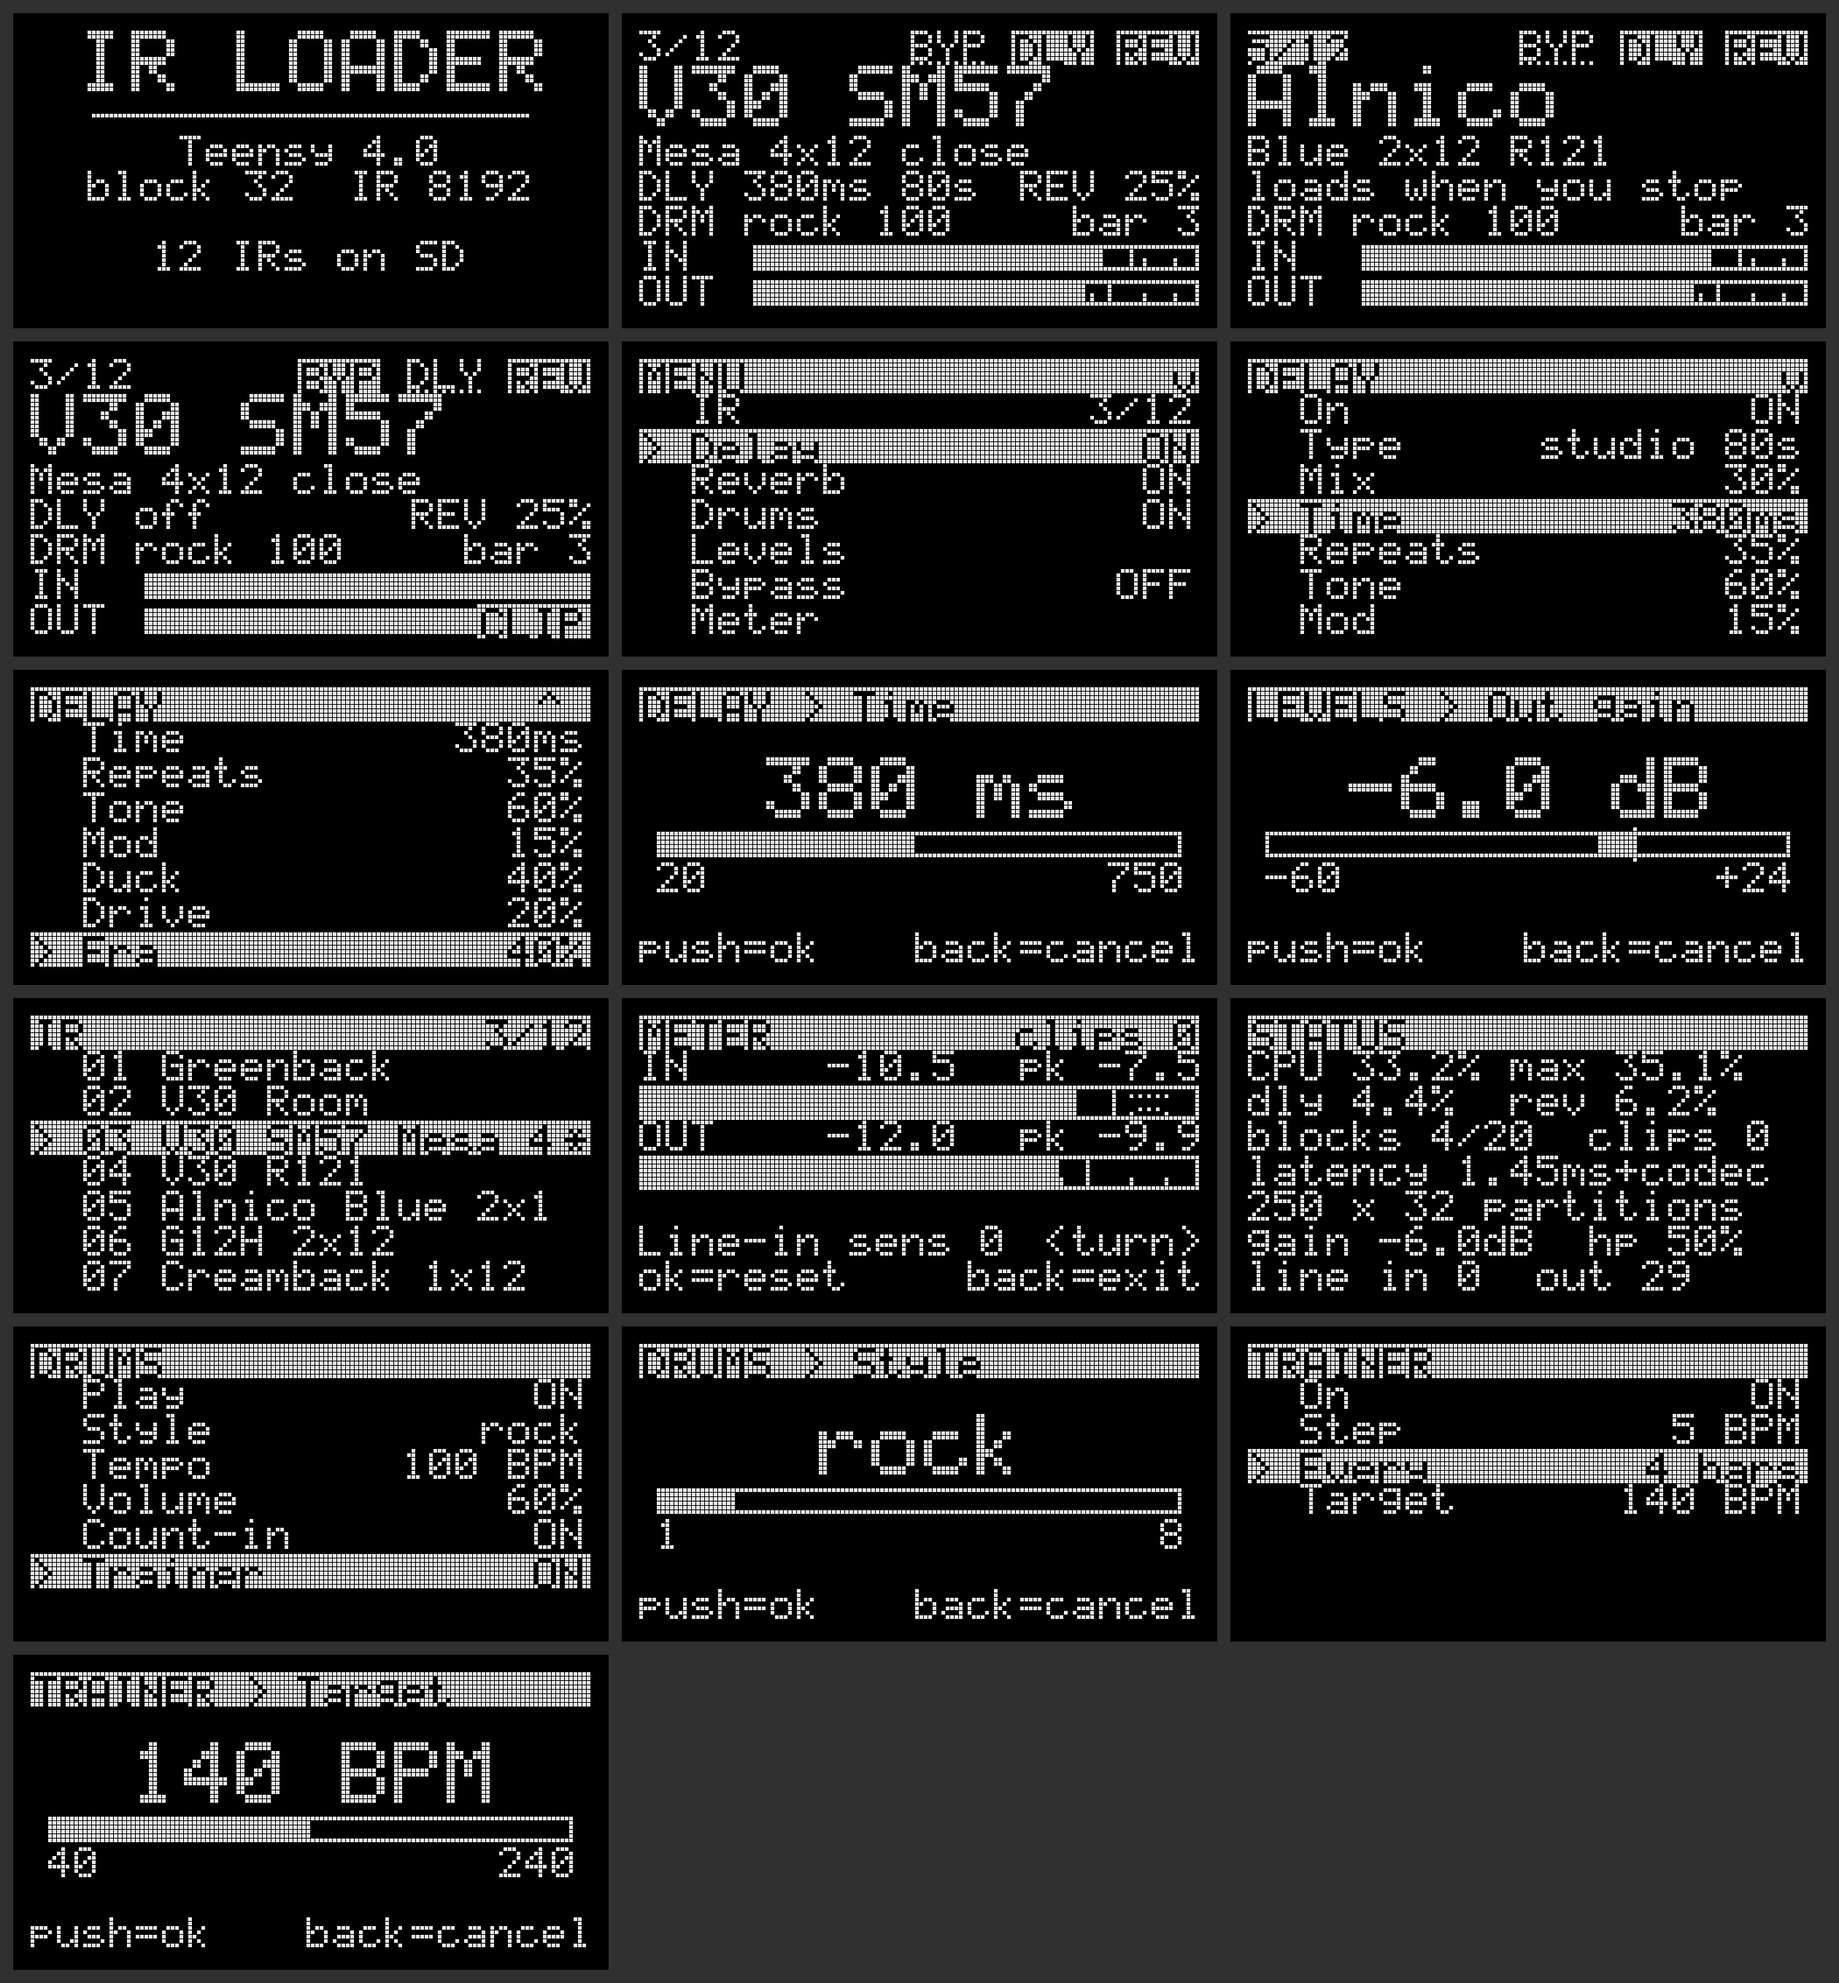
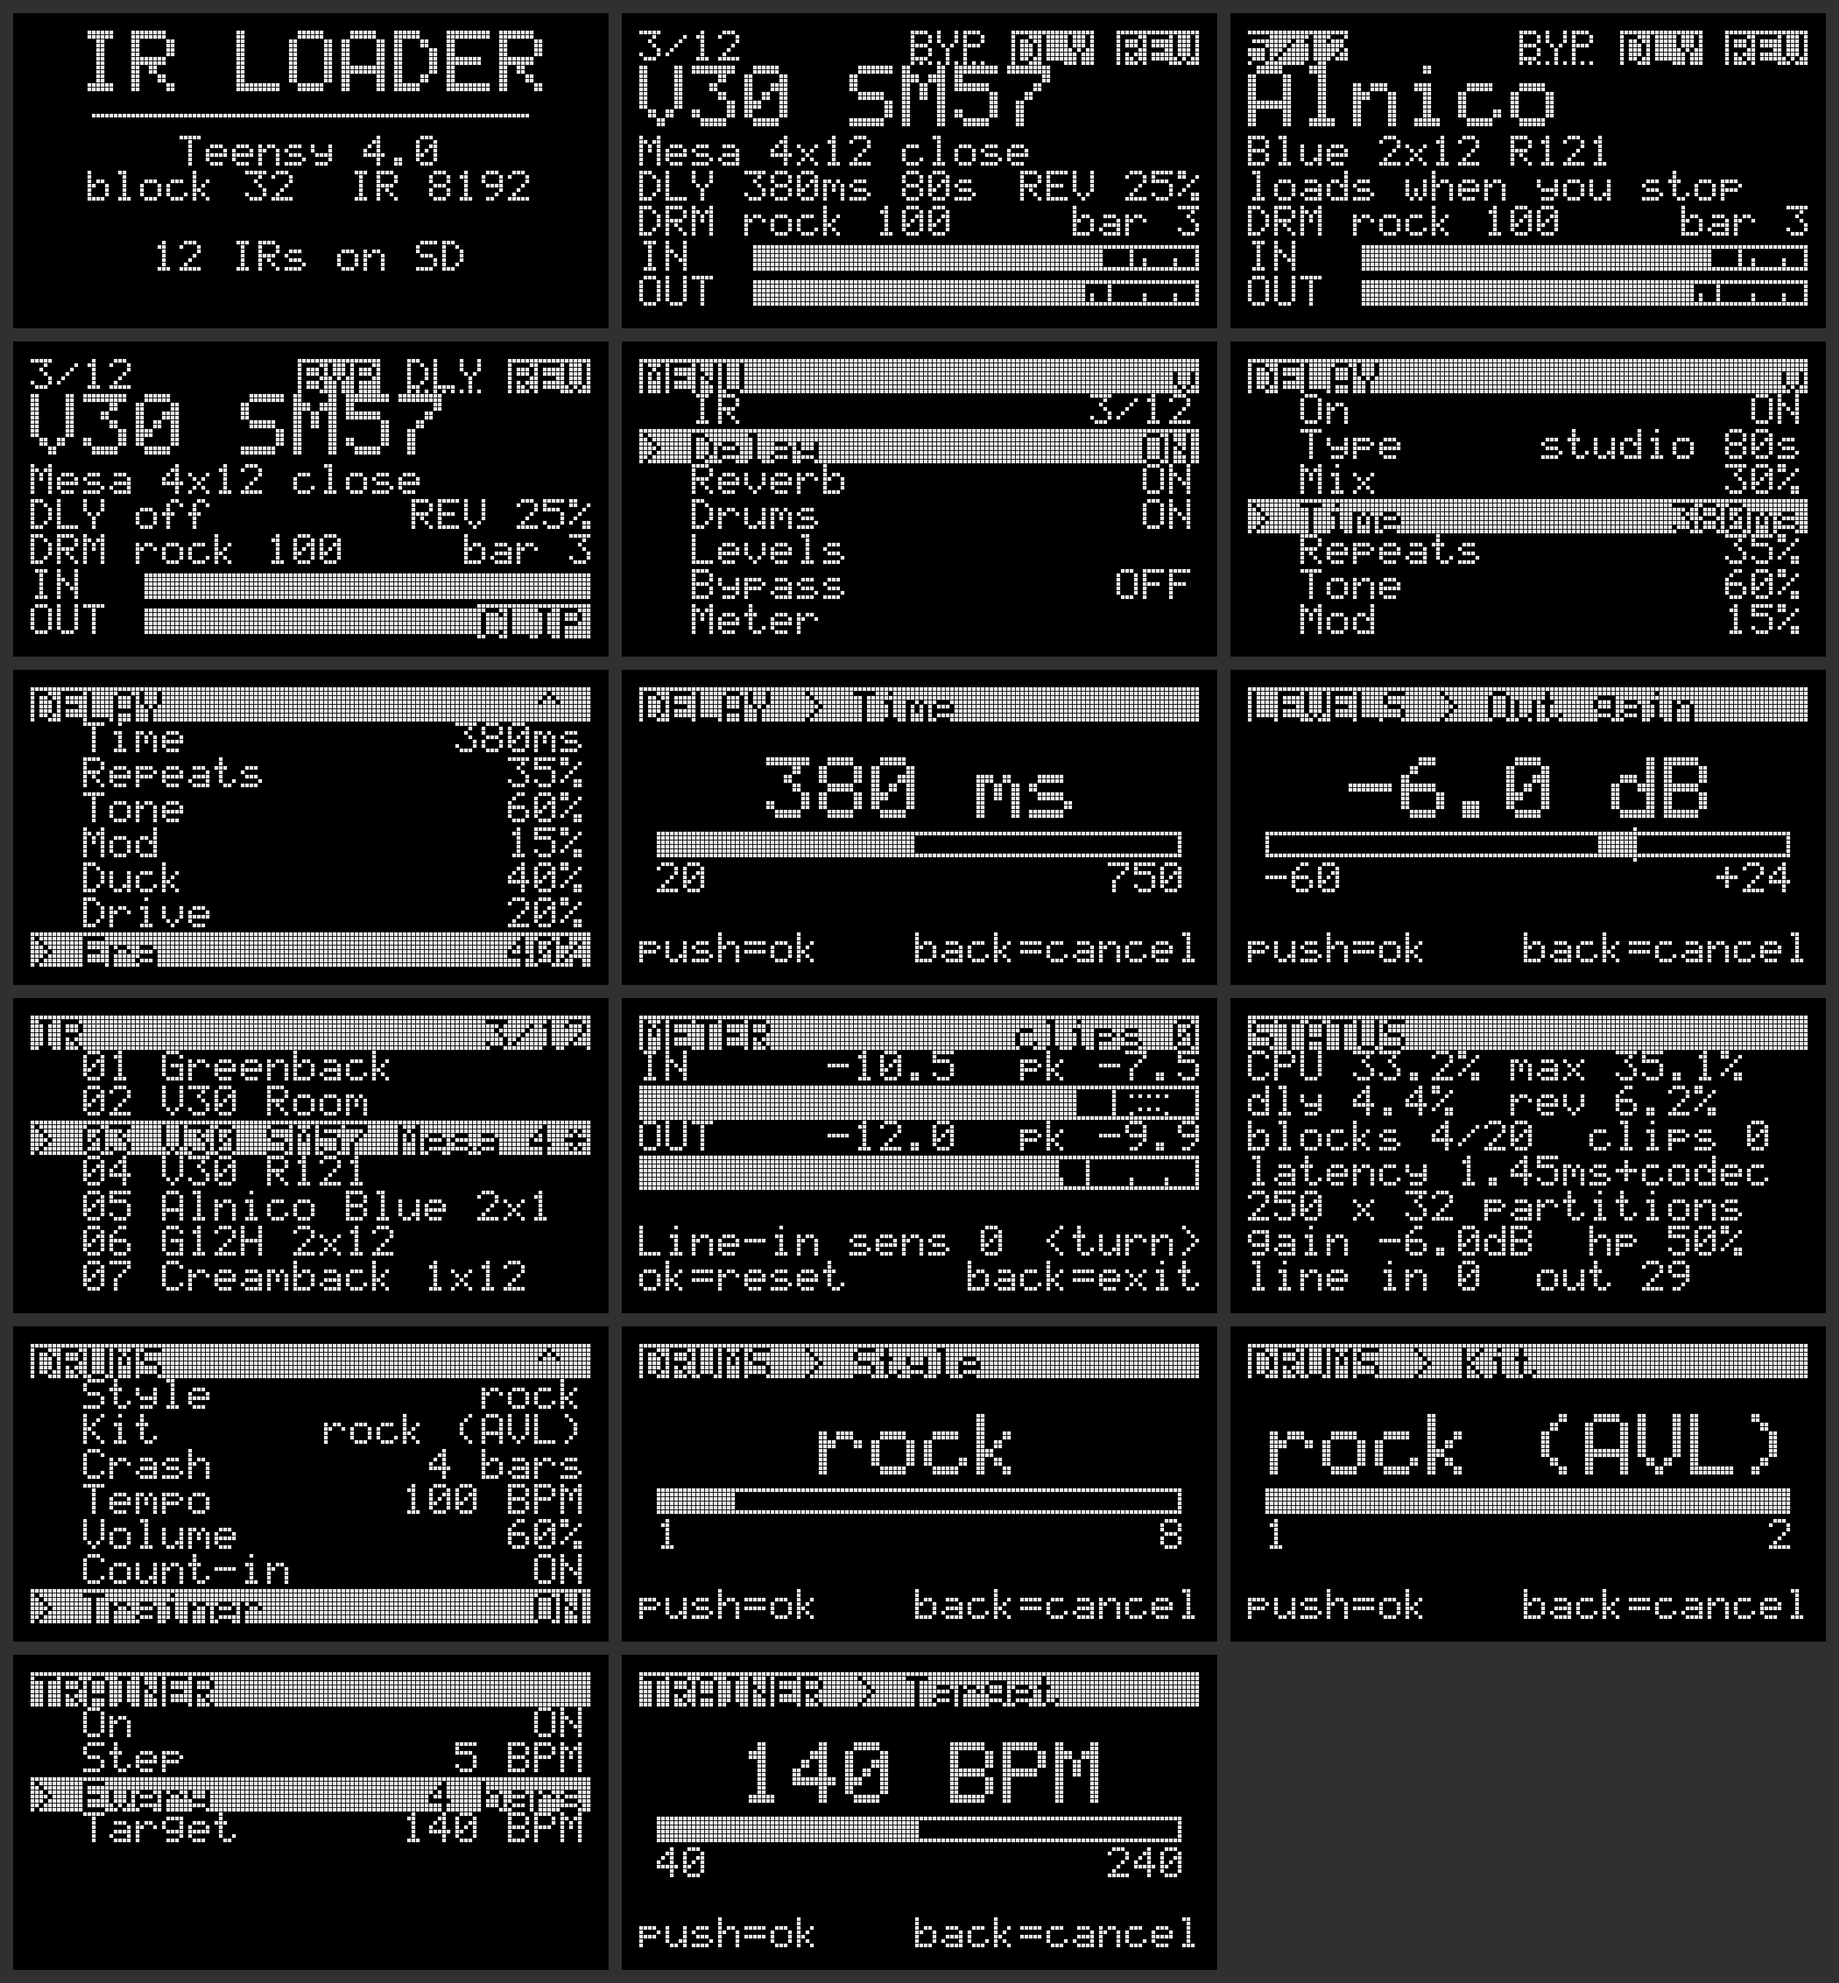
Add Kit and Crash rows to the OLED Drums page
Kit is chosen by turning (names from MenuHost::valueText); Crash steps
off / 2 / 4 / 8 / 16 bars on each push, like the delay type. UI tests and
a new render (16_edit_drum_kit); screenshots regenerated.

diff --git a/lib/oledui/src/Menu.cpp b/lib/oledui/src/Menu.cpp
@@ -19,6 +19,8 @@ UI_LABEL(kTrainerTitle, "TRAINER");
 UI_LABEL(kLDrums, "Drums");
 UI_LABEL(kLPlay, "Play");
 UI_LABEL(kLStyle, "Style");
+UI_LABEL(kLKit, "Kit");
+UI_LABEL(kLCrash, "Crash");
 UI_LABEL(kLTempo, "Tempo");
 UI_LABEL(kLVolume, "Volume");
 UI_LABEL(kLCountIn, "Count-in");
@@ -50,9 +52,15 @@ UI_LABEL(kLLineOut, "Line-out");
 UI_LABEL(kLPhones, "Headphones");
 UI_LABEL(kCPing, "ping-pong");
 UI_LABEL(kC80s, "studio 80s");
+UI_LABEL(kCOff, "off");
+UI_LABEL(kC2Bars, "2 bars");
+UI_LABEL(kC4Bars, "4 bars");
+UI_LABEL(kC8Bars, "8 bars");
+UI_LABEL(kC16Bars, "16 bars");
 #undef UI_LABEL
 
 static const char* const UI_PROGMEM kTypeNames[] = {kCPing, kC80s};
+static const char* const UI_PROGMEM kCrashNames[] = {kCOff, kC2Bars, kC4Bars, kC8Bars, kC16Bars};
 
 using K = Kind;
 using U = Unit;
@@ -95,11 +103,13 @@ static const MenuItem UI_PROGMEM kLevelItems[] = {
     {kLPhones, K::kValue, kHeadphones, 0, 0, 100, 1, U::kPercent, kNoItem, nullptr},
 };
 
-// The style's range end comes from MenuHost::limits (the number of styles),
-// its name from MenuHost::valueText.
+// The style's and kit's range ends come from MenuHost::limits (how many
+// there are), their names from MenuHost::valueText.
 static const MenuItem UI_PROGMEM kDrumItems[] = {
     {kLPlay, K::kToggle, kDrumsPlay, 0, 0, 1, 1, U::kNone, kNoItem, nullptr},
     {kLStyle, K::kValue, kDrumStyle, 0, 0, 7, 1, U::kOneBased, kNoItem, nullptr},
+    {kLKit, K::kValue, kDrumKit, 0, 0, 1, 1, U::kOneBased, kNoItem, nullptr},
+    {kLCrash, K::kChoice, kDrumCrash, 0, 0, 4, 1, U::kNone, kNoItem, kCrashNames},
     {kLTempo, K::kValue, kDrumTempo, 0, 40, 240, 1, U::kBpm, kNoItem, nullptr},
     {kLVolume, K::kValue, kDrumVolume, 0, 0, 100, 1, U::kPercent, kNoItem, nullptr},
     {kLCountIn, K::kToggle, kDrumCountIn, 0, 0, 1, 1, U::kNone, kNoItem, nullptr},

diff --git a/test/host/ui_fake.h b/test/host/ui_fake.h
@@ -19,7 +19,7 @@ struct FakeHost : ui::MenuHost {
     v[ui::kOutGain] = -12; v[ui::kLineIn] = 0; v[ui::kLineOut] = 29; v[ui::kHeadphones] = 50;
     v[ui::kDrumsPlay] = 1; v[ui::kDrumStyle] = 1; v[ui::kDrumTempo] = 100; v[ui::kDrumVolume] = 60;
     v[ui::kDrumCountIn] = 1; v[ui::kTrainerOn] = 0; v[ui::kTrainerStep] = 5; v[ui::kTrainerEvery] = 4;
-    v[ui::kTrainerTarget] = 140;
+    v[ui::kTrainerTarget] = 140; v[ui::kDrumKit] = 1; v[ui::kDrumCrash] = 2;
   }
   static const char* styleName(int i) {
     static const char* names[] = {"metronome", "rock",          "offbeat 8ths", "offbeat 16ths",
@@ -35,10 +35,12 @@ struct FakeHost : ui::MenuHost {
     (void)lo;
     if (id == ui::kDelayTime) *hi = timeMax;
     if (id == ui::kDrumStyle) *hi = 7;
+    if (id == ui::kDrumKit) *hi = 1;
   }
   bool valueText(uint8_t id, char* buf, int n) override {
     if (id == ui::kScreenIR) std::snprintf(buf, n, "3/12");
     else if (id == ui::kDrumStyle) std::snprintf(buf, n, "%s", styleName(v[id]));
+    else if (id == ui::kDrumKit) std::snprintf(buf, n, "%s", v[id] ? "rock (AVL)" : "synth");
     else return false;
     return true;
   }

diff --git a/test/host/test_ui.cpp b/test/host/test_ui.cpp
@@ -143,6 +143,20 @@ static void testDrumsPage() {
   check(h.v[ui::kDrumStyle] == 7, "  ... up to the last style (MenuHost::limits)", h.v[ui::kDrumStyle]);
   m.back();
   check(h.v[ui::kDrumStyle] == 1, "  ... back restores rock", h.v[ui::kDrumStyle]);
+  m.turn(1, 0);
+  check(m.current()->id == ui::kDrumKit, "Kit after Style", m.current()->id);
+  m.push();
+  m.turn(5, 1000);
+  check(h.v[ui::kDrumKit] == 1, "  ... kit range from MenuHost::limits (2 kits)", h.v[ui::kDrumKit]);
+  m.turn(-1, 2000);
+  m.push();
+  check(h.v[ui::kDrumKit] == 0, "  ... rock -> synth", h.v[ui::kDrumKit]);
+  m.turn(1, 0);
+  m.push();
+  check(m.current()->id == ui::kDrumCrash && h.v[ui::kDrumCrash] == 3, "Crash: push steps 4 bars -> 8 bars", h.v[ui::kDrumCrash]);
+  m.push();
+  m.push();
+  check(h.v[ui::kDrumCrash] == 0, "  ... 16 bars, then off", h.v[ui::kDrumCrash]);
   const ui::MenuItem bars{"e", ui::Kind::kValue, ui::kTrainerEvery, 0, 1, 16, 1, ui::Unit::kBars, 0, nullptr};
   char b[16], b1[16];
   ui::formatValue(bars, 4, false, b, sizeof(b));

diff --git a/lib/oledui/src/Menu.h b/lib/oledui/src/Menu.h
@@ -29,7 +29,9 @@ enum ItemId : uint8_t {
   kOutGain,  // half-dB steps
   kLineIn, kLineOut, kHeadphones,
   kBypass,
-  kDrumsPlay, kDrumStyle, kDrumTempo, kDrumVolume, kDrumCountIn,
+  kDrumsPlay, kDrumStyle, kDrumKit,
+  kDrumCrash,  // 0 off, 1..4 = every 2, 4, 8, 16 bars
+  kDrumTempo, kDrumVolume, kDrumCountIn,
   kTrainerOn, kTrainerStep, kTrainerEvery, kTrainerTarget,
   // Read-only, for visibility.
   kIsStudioDelay,  // 1 when the delay type is studio 80s
@@ -77,7 +79,7 @@ class MenuHost {
   // Overrides an item's range (e.g. the delay time's maximum from config.h).
   virtual void limits(uint8_t id, int* lo, int* hi) { (void)id; (void)lo; (void)hi; }
   // Value text instead of the number, for kScreen rows ("3/12" next to IR)
-  // and named values (the drum style). Returns false to use the number.
+  // and named values (drum style and kit). Returns false to use the number.
   virtual bool valueText(uint8_t id, char* buf, int n) { (void)id; (void)buf; (void)n; return false; }
 
  protected:

diff --git a/test/host/render_ui.cpp b/test/host/render_ui.cpp
@@ -132,16 +132,21 @@ int main(int argc, char** argv) {
   snap("11_status");
 
   host.v[ui::kTrainerOn] = 1;
-  menu.open(); menu.turn(3, 0); menu.push(); menu.turn(5, 0);  // Drums > Trainer
+  menu.open(); menu.turn(3, 0); menu.push(); menu.turn(7, 0);  // Drums > Trainer
   menu.draw(c);
   snap("12_menu_drums");
 
-  menu.turn(-4, 0); menu.push();  // Style
+  menu.turn(-6, 0); menu.push();  // Style
   menu.draw(c);
   snap("13_edit_drum_style");
   menu.back();
 
-  menu.turn(4, 0); menu.push(); menu.turn(2, 0);  // Trainer page, cursor on Every
+  menu.turn(1, 0); menu.push();  // Kit
+  menu.draw(c);
+  snap("16_edit_drum_kit");
+  menu.back();
+
+  menu.turn(5, 0); menu.push(); menu.turn(2, 0);  // Trainer page, cursor on Every
   menu.draw(c);
   snap("14_menu_trainer");
 
